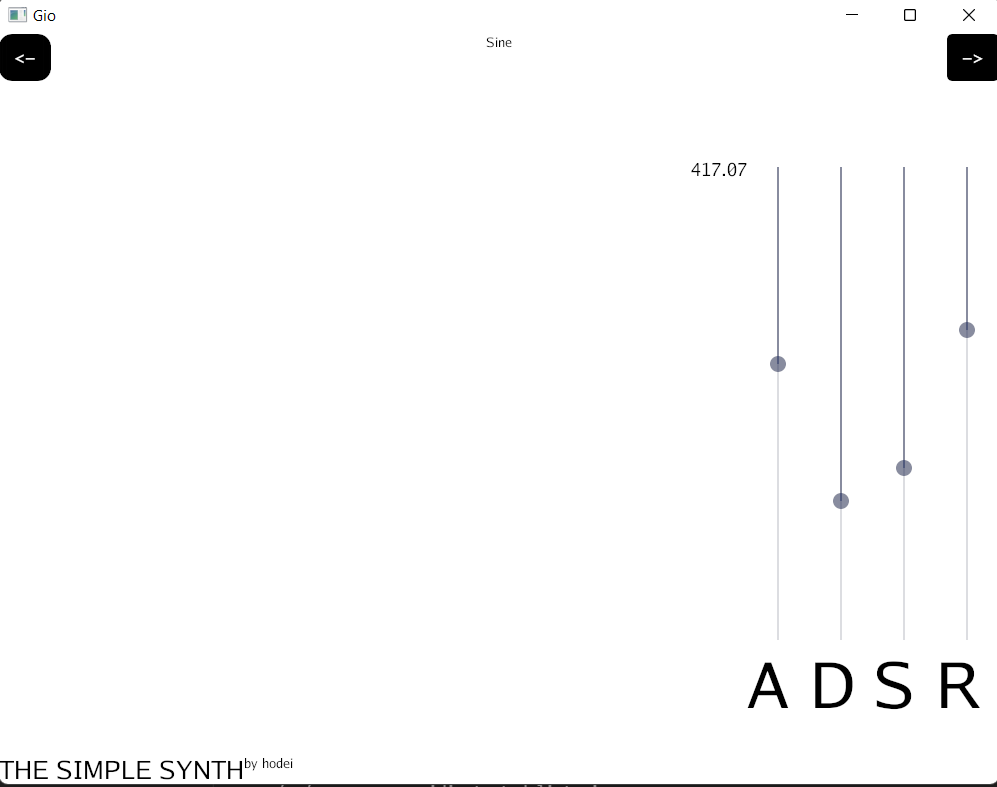
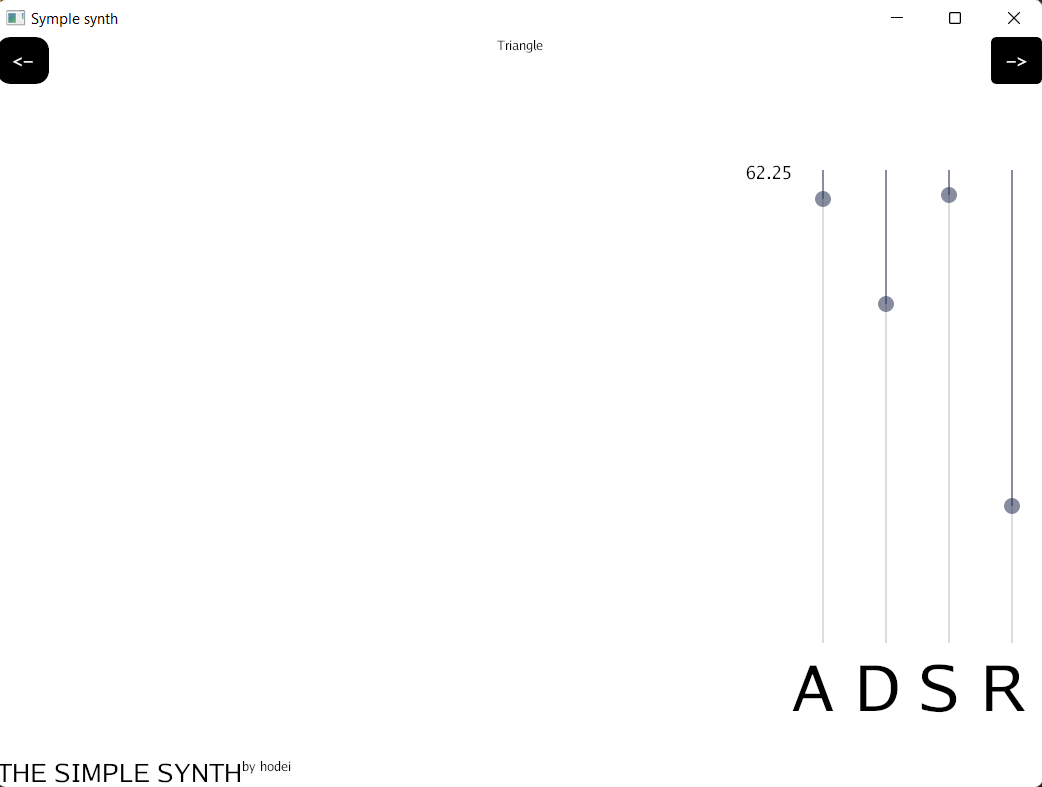
cleaning and fixes

diff --git a/gui/guirender.go b/gui/guirender.go
@@ -5,6 +5,7 @@ import (
 	"strconv"
 
 	"gioui.org/app"
+
 	"gioui.org/font/gofont"
 	"gioui.org/io/system"
 	"gioui.org/layout"
@@ -23,7 +24,6 @@ func Render(w *app.Window, controller *generator.Controls) error {
 	//fields
 	var ops op.Ops
 	//init
-
 	selector := components.CreateSelector(th)
 	sliders := []components.MySlider{components.Slider(th, 1, 1000.0, "A"), components.Slider(th, 1, 1000.0, "D"), components.Slider(th, 0.00, 1, "S"), components.Slider(th, 1, 1000.0, "R")}
 	adsrPanel := components.SliderPanel{Sliders: sliders, PanelColor: color.NRGBA{250, 250, 50, 255}}
@@ -43,22 +43,18 @@ func Render(w *app.Window, controller *generator.Controls) error {
 		case system.FrameEvent:
 
 			components.SelectorCounter(selector.ButtonUp.ClickWidget, selector.ButtonDown.ClickWidget, controller.SelectorFunc)
-			//	slideValue := components.SlidersAction(sliders[0].FloatWidget)
 
+			bindControls(controller.ADSRcontrol, sliders)
 			gtx := layout.NewContext(&ops, e)
 			layout.E.Layout(gtx, func(gtx layout.Context) layout.Dimensions {
 				return marginCenter.Layout(gtx, func(gtx layout.Context) layout.Dimensions {
 					return layout.Flex{Axis: layout.Horizontal, Spacing: layout.SpaceEvenly}.Layout(gtx,
 						layout.Rigid(func(gtx layout.Context) layout.Dimensions {
 
-							*controller.ADSRcontrol.AttackTime = float64(sliders[0].FloatWidget.Value)
-							*controller.ADSRcontrol.DecayTime = float64(sliders[1].FloatWidget.Value)
-							*controller.ADSRcontrol.SustainAmp = float64(sliders[2].FloatWidget.Value)
-							*controller.ADSRcontrol.ReleaseTime = float64(sliders[3].FloatWidget.Value)
-
 							return material.Body2(th, strconv.FormatFloat(float64(sliders[0].FloatWidget.Value), 'f', 2, 64)).Layout(gtx)
 						}),
 						layout.Rigid(func(gtx layout.Context) layout.Dimensions {
+
 							return components.ShowADSRPanel(th, gtx, adsrPanel)
 
 						}),
@@ -86,4 +82,10 @@ func Render(w *app.Window, controller *generator.Controls) error {
 
 		}
 	}
+}
+func bindControls(controller *generator.ADSRControl, sliders []components.MySlider) {
+	*controller.AttackTime = float64(sliders[0].FloatWidget.Value)
+	*controller.DecayTime = float64(sliders[1].FloatWidget.Value)
+	*controller.SustainAmp = float64(sliders[2].FloatWidget.Value)
+	*controller.ReleaseTime = float64(sliders[3].FloatWidget.Value)
 }

diff --git a/main.go b/main.go
@@ -1,9 +1,6 @@
 package main
 
 import (
-	/* "bufio" */
-	"fmt"
-
 	"log"
 	"os"
 
@@ -16,7 +13,7 @@ import (
 )
 
 func main() {
-	fmt.Println("hello synth")
+	//IN GOAUDIO osc.go file comment //fmt.Println(o.CurrentPhaseAngle) in line 117
 	//**********************************************setup**********************************
 	bufferSize := 128
 	osc := generator.Oscillator(bufferSize)
@@ -37,7 +34,7 @@ func main() {
 	midiMessages := []midi.MidiMsg{{Key: -1, On: false}, {Key: 0, On: false}}
 	//--------------------------------------------------------------------------------
 	//------------------------------ADSR-----------------------------------------------
-	adsr := generator.ADSR{AttackTime: *controller.ADSRcontrol.AttackTime, DecayTime: *controller.ADSRcontrol.DecayTime, SustainAmp: *controller.ADSRcontrol.SustainAmp, ReleaseTime: *controller.ADSRcontrol.ReleaseTime, ControlAmp: 0.0}
+	adsr := generator.ADSR{AttackTime: *controller.ADSRcontrol.AttackTime, DecayTime: *controller.ADSRcontrol.DecayTime, SustainAmp: *controller.ADSRcontrol.SustainAmp, ReleaseTime: *controller.ADSRcontrol.ReleaseTime, ControlAmp: 0.01}
 	pos := 0.0
 	//----------------------------------------------------------------------------------
 	//************************************************************************************************
@@ -46,7 +43,7 @@ func main() {
 
 	go func() {
 
-		w := app.NewWindow(app.Size(unit.Dp(800), unit.Dp(600)))
+		w := app.NewWindow(app.Size(unit.Dp(800), unit.Dp(600)), app.Title("Symple synth"))
 
 		err := gui.Render(w, &controller)
 		if err != nil {
@@ -71,15 +68,10 @@ func main() {
 	//evaluate and execute changes
 
 	for {
-		//TODO: send all adsr Controls
-		/* running  */
-		/* 	log.Println(osc.Osc.Amplitude) */
+
 		adsr.ADSR(midiMessages, &osc, &pos, controller.ADSRcontrol)
 		generator.ChangeFreq(midiMessages, &osc)
 		generator.SelectWave(*controller.SelectorFunc, &osc)
-
-		/* go run(adsr, midiMessages, osc, pos, controller) */
-		//TODO: avoid log println to run adsr.ADSR
 
 	}
 

diff --git a/synth/generator/oscillator.go b/synth/generator/oscillator.go
@@ -88,7 +88,7 @@ func SelectWave(selector MyWaveType, osc *Osc) Osc {
 	case 1:
 		osc.Osc.Shape = generator.WaveType(generator.WaveSaw)
 	case 2:
-		osc.Osc.Shape = generator.WaveType(generator.WaveSqr) //TODO:need to fix check go-audio
+		osc.Osc.Shape = generator.WaveType(generator.WaveSqr)
 	case 3:
 		osc.Osc.Shape = generator.WaveType(generator.WaveSine)
 

diff --git a/README.md b/README.md
@@ -24,6 +24,7 @@ A simple synth made using golang
 <h2>Future features</h2>
 <ul>
 <li>Polyphony</li>
+<li>Velocity sensitivity</li>
 <li>AM/FM modulation</li>
 <li>Low pass effect</li>
 <li>Delay effect</li>
